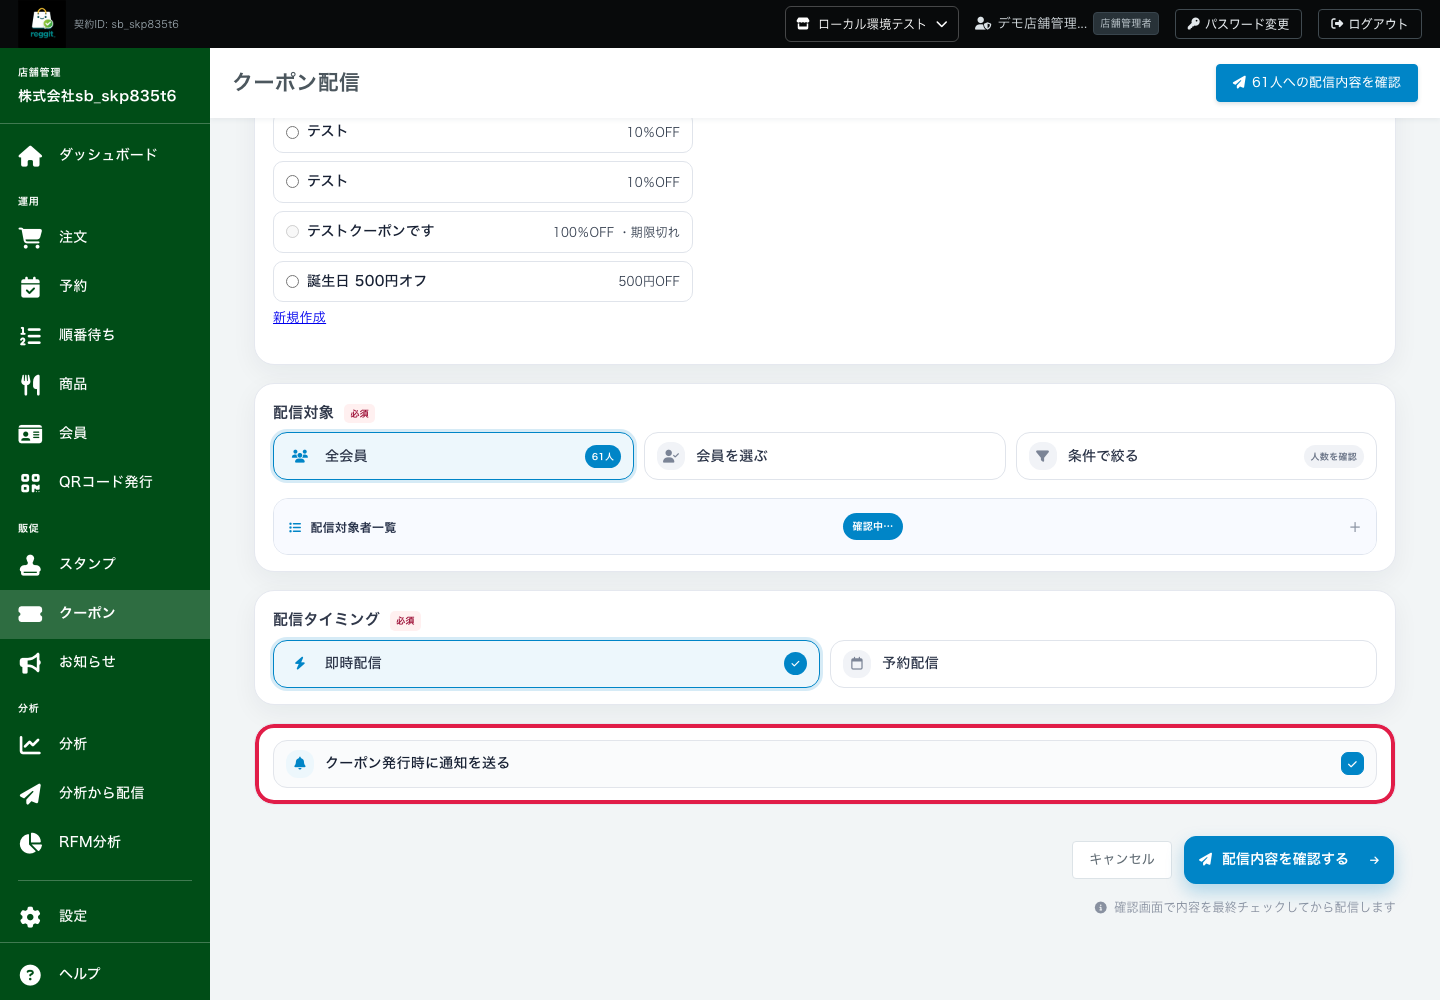
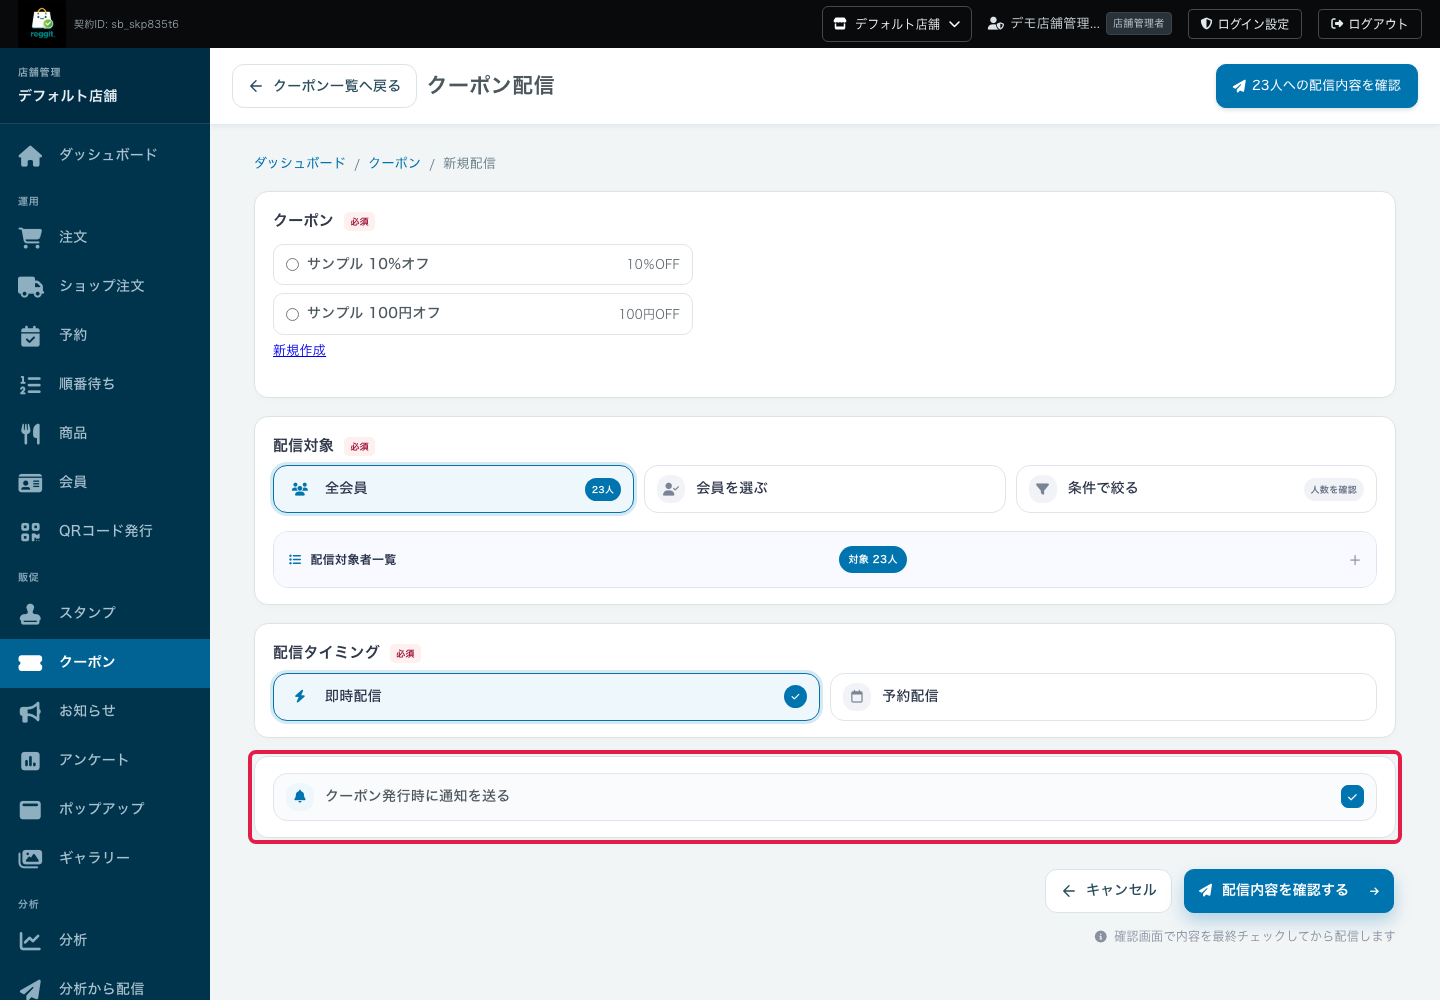
feat: ヘルプに用語集・スマレジ公式ヘルプ・FAQ・新機能の使い方を追加し、赤枠が欠けた画像を撮り直す
- 用語集、スマレジ公式ヘルプの参照先、よくある質問9件、回数券・サブスク／ショップ／チャット／アンケート／宣伝ポップアップ／流入経路QRの使い方6件を追加（計97記事）
- ヘルプ本文の外部リンクはスマレジ公式ヘルプ（help.smaregi.jp/hc/ja 配下）だけ許可し、スマレジ関連の既存6記事に公式ヘルプの節を追加
- ヘルプ一覧（公開・管理画面）の冒頭から用語集と参照先へ移動できるようにする
- 赤枠を画面最前面に重ねて描く共通処理を作り、枠が隠れていた手順画像28枚と抽選設定を撮り直す
- ヘルプ画像のURLに更新日時の ?v= を付け、CDN キャッシュで古い画像が出ないようにする

diff --git a/tests/Unit/HelpMarkdownTest.php b/tests/Unit/HelpMarkdownTest.php
@@ -47,6 +47,24 @@ class HelpMarkdownTest extends TestCase
         }
     }
 
+    public function test_links_allow_only_smaregi_official_help_as_external_site(): void
+    {
+        $renderer = new HelpMarkdown;
+        $this->assertStringContainsString(
+            '<a href="https://help.smaregi.jp/hc/ja/articles/202423816" rel="external noopener">取引をキャンセルする</a>',
+            $renderer->toHtml('[取引をキャンセルする](https://help.smaregi.jp/hc/ja/articles/202423816)'),
+        );
+        foreach ([
+            'http://help.smaregi.jp/hc/ja/articles/1',
+            'https://help.smaregi.jp.example.com/hc/ja/articles/1',
+            'https://help.smaregi.jp/hc/ja/articles/1?x="onclick="alert(1)',
+            'https://help.smaregi.jp/hc/ja/articles/abc',
+            'https://example.com/hc/ja/articles/1',
+        ] as $url) {
+            $this->assertStringNotContainsString('<a ', $renderer->toHtml('[外部]('.$url.')'), $url);
+        }
+    }
+
     public function test_htmlを逃がして見出しと箇条書きにすること(): void
     {
         $html = (new HelpMarkdown)->toHtml("## 見出し\n\n<script>alert(1)</script>\n\n- **太字**の項目\n");
@@ -61,7 +79,9 @@ class HelpMarkdownTest extends TestCase
     {
         $renderer = new HelpMarkdown;
         $html = $renderer->toHtml('![画面](/images/help/help-members.png)');
-        $this->assertStringContainsString('<img src="/images/help/help-members.png"', $html);
+        $version = filemtime(public_path('images/help/help-members.png'));
+        $this->assertStringContainsString('<img src="/images/help/help-members.png?v='.$version.'"', $html);
+        $this->assertStringContainsString('<img src="/images/help/missing-image.png"', $renderer->toHtml('![画面](/images/help/missing-image.png)'));
         $this->assertStringNotContainsString('<img', $renderer->toHtml('![画面](javascript:alert(1))'));
         $this->assertStringNotContainsString('<img', $renderer->toHtml('![画面](https://example.com/a.png)'));
     }

diff --git a/app/Support/HelpMarkdown.php b/app/Support/HelpMarkdown.php
@@ -35,7 +35,10 @@ final class HelpMarkdown
                 continue;
             }
             if (preg_match('~^!\[([^\]]*)\]\((/images/help/[a-zA-Z0-9_-]+\.png)\)$~', $line, $matches) === 1) {
-                $html .= $this->closeList($list).'<figure class="help-shot"><a class="help-shot__frame" href="'.$matches[2].'" target="_blank" rel="noopener" aria-label="画面画像を拡大する"><img src="'.$matches[2].'" alt="'.$matches[1].'" loading="lazy"><span class="help-shot__zoom">画像を拡大 ↗</span></a><figcaption>'.$matches[1].'</figcaption></figure>';
+                // 画像は CDN で長期キャッシュされるため、撮り直しが反映されるよう更新日時を付ける。
+                $mtime = @filemtime(public_path(ltrim($matches[2], '/')));
+                $src = $matches[2].($mtime === false ? '' : '?v='.$mtime);
+                $html .= $this->closeList($list).'<figure class="help-shot"><a class="help-shot__frame" href="'.$src.'" target="_blank" rel="noopener" aria-label="画面画像を拡大する"><img src="'.$src.'" alt="'.$matches[1].'" loading="lazy"><span class="help-shot__zoom">画像を拡大 ↗</span></a><figcaption>'.$matches[1].'</figcaption></figure>';
 
                 continue;
             }
@@ -93,6 +96,10 @@ final class HelpMarkdown
 
         return preg_replace_callback('~(?<!!)\[([^\]\n]+)\]\(([^)\s]+)\)~', function (array $matches) use ($public): string {
             $url = html_entity_decode($matches[2], ENT_QUOTES | ENT_HTML5, 'UTF-8');
+            // 外部リンクはスマレジ公式ヘルプの記事・カテゴリ・セクションだけを許可する。
+            if (preg_match('~^https://help\.smaregi\.jp/hc/ja(?:/(?:articles|categories|sections)/[0-9]+)?$~D', $url) === 1) {
+                return '<a href="'.$url.'" rel="external noopener">'.$matches[1].'</a>';
+            }
             if (preg_match('~^/(?!/)[a-zA-Z0-9/_?&=.%#{}+\~-]*$~D', $url) !== 1) {
                 return $matches[0];
             }

diff --git a/tests/Feature/PublicHelpTest.php b/tests/Feature/PublicHelpTest.php
@@ -25,6 +25,19 @@ class PublicHelpTest extends TestCase
         $this->assertGuest('admin');
     }
 
+    public function test_index_links_glossary_and_articles_link_smaregi_official_help(): void
+    {
+        $this->get('/help')->assertOk()
+            ->assertSee(route('help.show', ['slug' => 'glossary']), false)
+            ->assertSee(route('help.show', ['slug' => 'smaregi-official-help']), false);
+        $this->get('/help/smaregi-official-help')->assertOk()
+            ->assertSee('<a href="https://help.smaregi.jp/hc/ja/articles/202423896" rel="external noopener">会員販売をする</a>', false)
+            ->assertSee('href="/help/faq-points-smaregi"', false);
+        $this->get('/help/rewards-cancellation')->assertOk()
+            ->assertSee('href="https://help.smaregi.jp/hc/ja/articles/202423816"', false);
+        $this->get('/help?q='.urlencode('Webhook'))->assertOk()->assertSee('用語集：ヘルプでよく使う言葉');
+    }
+
     public function test_guests_can_search_body_text_and_follow_public_related_guides(): void
     {
         $this->get('/help?q='.urlencode('合算'))->assertOk()

diff --git a/resources/views/admin/help/index.blade.php b/resources/views/admin/help/index.blade.php
@@ -5,7 +5,7 @@
 
 @section('content')
 <article class="help-manual">
-    <div class="page-header"><h1 class="page-header-title">ヘルプ</h1><p class="page-header-desc">使い方は実際の画面と赤枠、よくある質問は文章で確認できます。</p></div>
+    <div class="page-header"><h1 class="page-header-title">ヘルプ</h1><p class="page-header-desc">使い方は実際の画面と赤枠、よくある質問は文章で確認できます。言葉の意味は<a href="{{ admin_route('admin.help.show', ['slug' => 'glossary']) }}">用語集</a>、スマレジ側の操作は<a href="{{ admin_route('admin.help.show', ['slug' => 'smaregi-official-help']) }}">スマレジ公式ヘルプの参照先</a>で確認できます。</p></div>
     <form class="help-search" method="GET" action="{{ admin_route('admin.help') }}">
         <label for="help-q">ヘルプを検索</label>
         <input id="help-q" type="search" name="q" value="{{ $query }}" placeholder="例: 引き継ぎ、失敗、キャンセル" autocomplete="off">

diff --git a/resources/views/help/index.blade.php b/resources/views/help/index.blade.php
@@ -6,6 +6,7 @@
 <article class="lp-container public-help help-manual">
     <h1>ヘルプ・使い方</h1>
     <p class="help-lead">会員・注文・予約・特典などの操作を、画面画像と詳しい手順で確認できます。どなたでもログインなしで読めます。</p>
+    <p class="public-help-note">言葉の意味は<a href="{{ route('help.show', ['slug' => 'glossary']) }}">用語集</a>、スマレジ側の操作は<a href="{{ route('help.show', ['slug' => 'smaregi-official-help']) }}">スマレジ公式ヘルプの参照先</a>で確認できます。</p>
     <form class="help-search" method="GET" action="{{ route('help.index') }}" role="search">
         <label for="help-q">知りたい機能を検索</label>
         <input id="help-q" type="search" name="q" value="{{ $query }}" maxlength="200" placeholder="例：既存会員連携、予約、クーポン">

diff --git a/tests/Feature/SystemHelpArticleTest.php b/tests/Feature/SystemHelpArticleTest.php
@@ -133,7 +133,7 @@ class SystemHelpArticleTest extends TestCase
             ->assertOk()->assertSee(route('system-admin.help-articles.show-preview', ['id' => $article->id]));
         $this->get(route('system-admin.help-articles.show-preview', ['id' => $article->id]))
             ->assertOk()->assertSee($article->title)->assertSee('下書き')
-            ->assertSee('<img src="/images/help/help-members.png"', false);
+            ->assertSee('<img src="/images/help/help-members.png?v=', false);
         $this->assertFalse($article->fresh()->is_published);
         $store = AdminUser::factory()->create(['role' => AdminUser::ROLE_ADMIN]);
         $this->actingAs($store, 'admin')->get(route('system-admin.help-articles.show-preview', ['id' => $article->id]))->assertForbidden();
